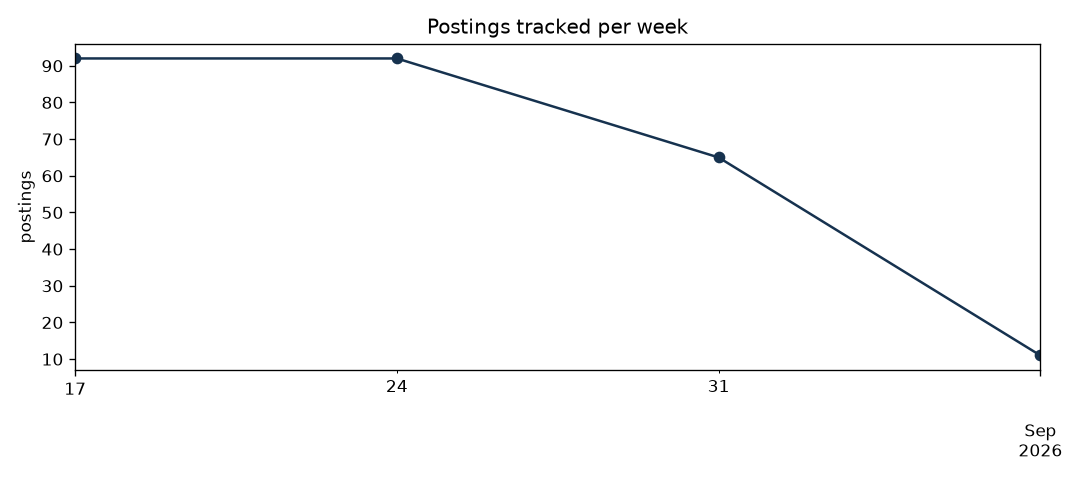
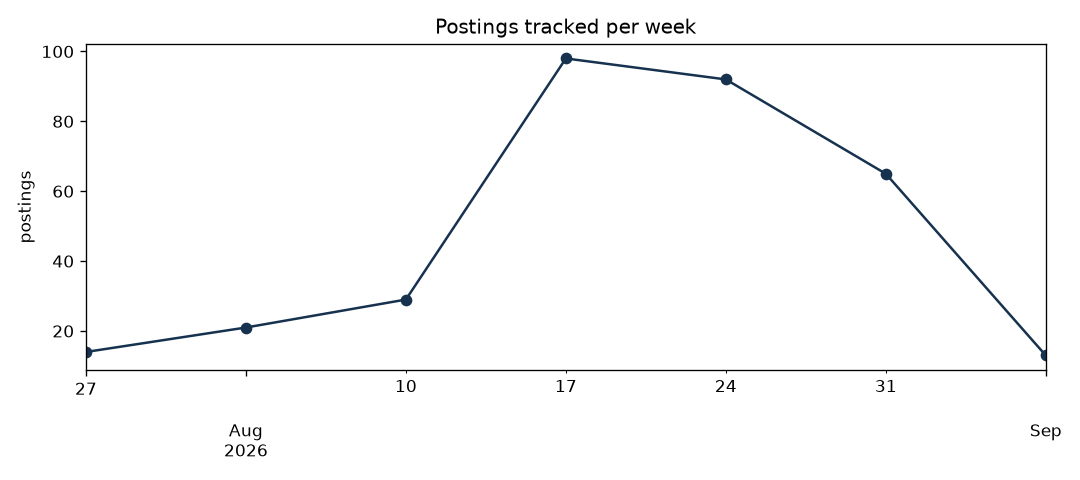
Daily data update

diff --git a/README.md b/README.md
@@ -13,14 +13,14 @@ reporting end to end.
 ## Dashboard
 
 <!-- dashboard:start -->
-*Last updated: 2026-09-09 17:02 UTC*
+*Last updated: 2026-09-10 16:53 UTC*
 
 | | |
 |---|---|
-| Postings tracked | 260 |
-| Companies | 216 |
-| New since last run | 17 |
-| Data/ML-related share | 21% |
+| Postings tracked | 332 |
+| Companies | 276 |
+| New since last run | 72 |
+| Data/ML-related share | 25% |
 
 ![Postings per week](reports/figures/postings_per_week.png)
 
